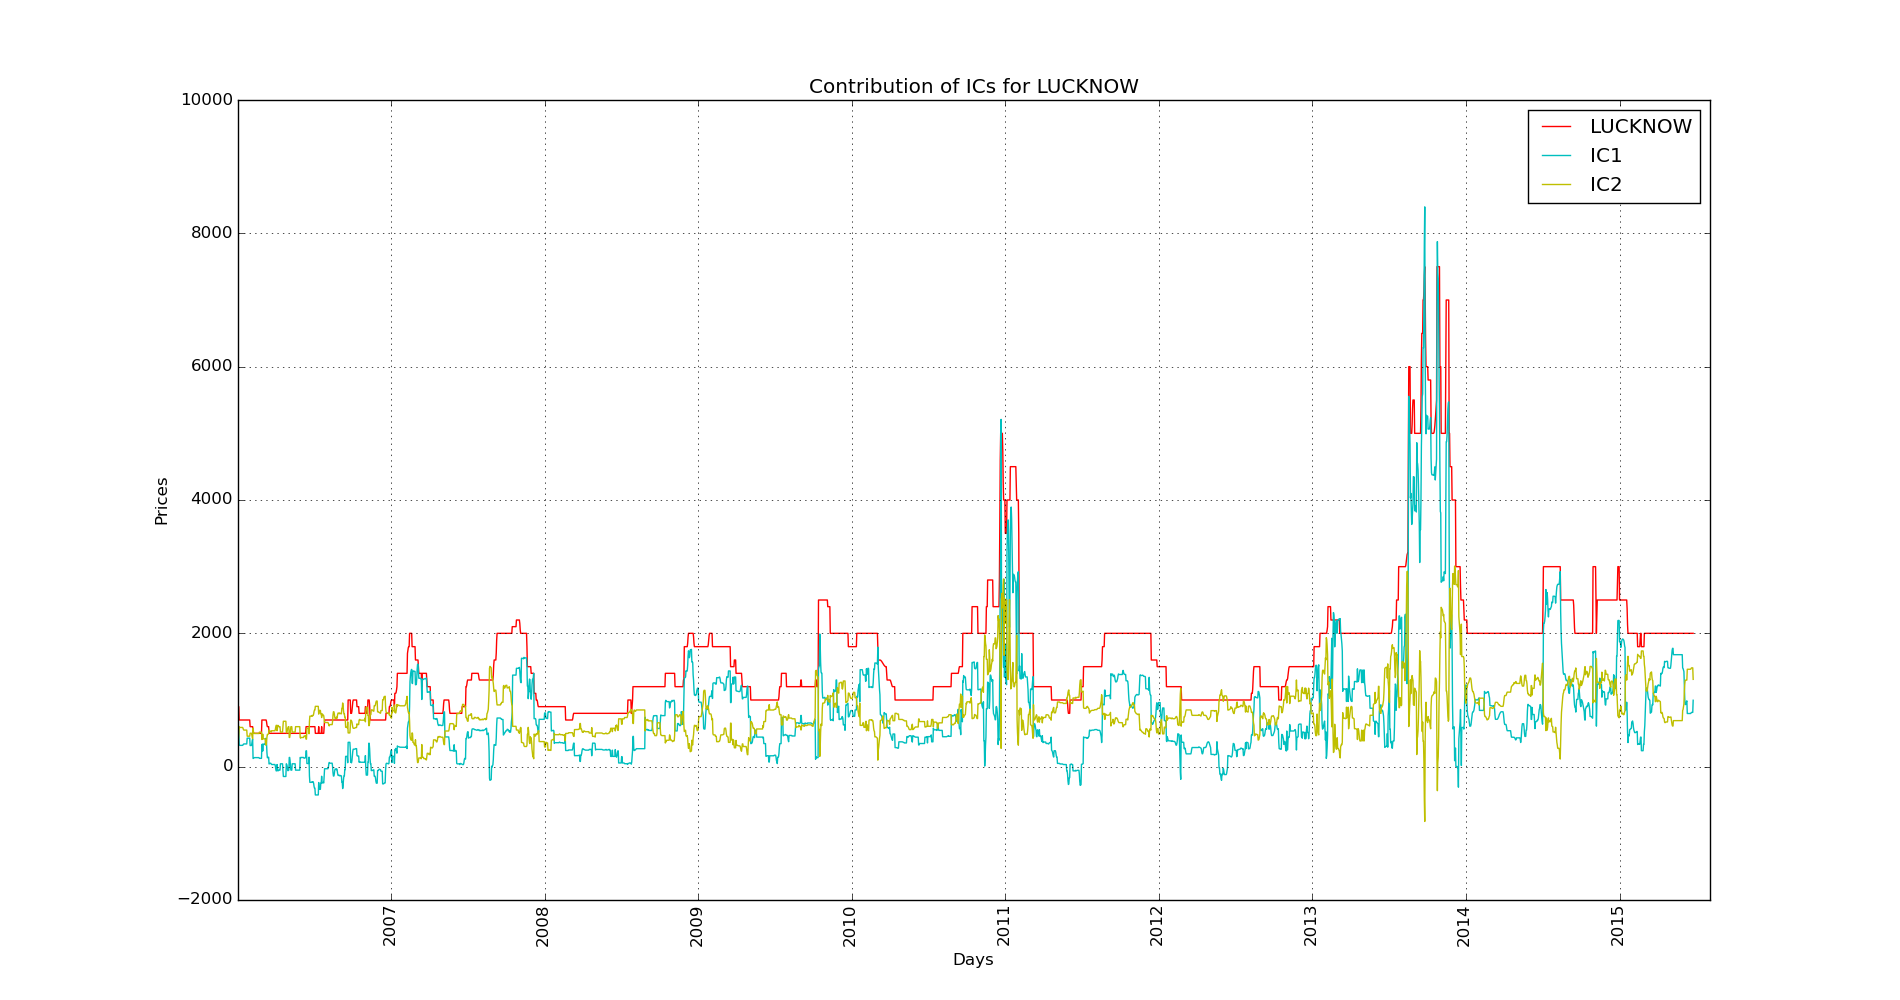
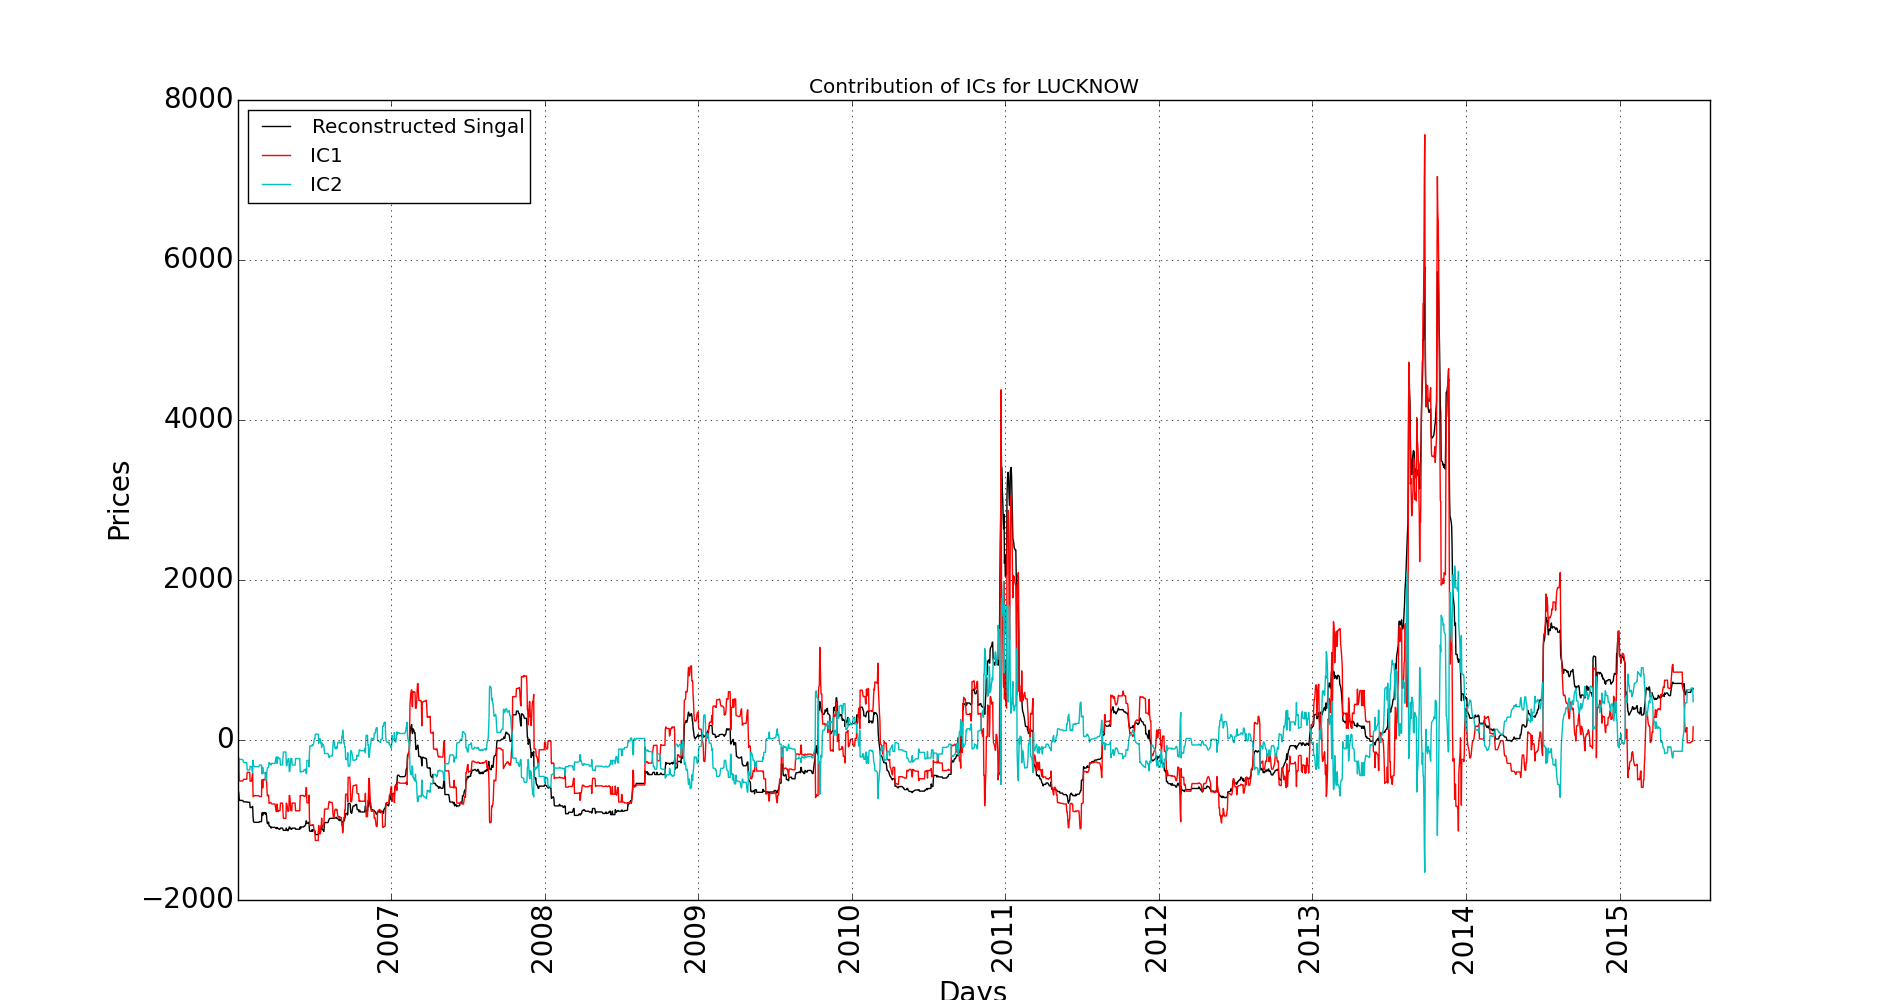
Before Mid Term PPT

diff --git a/ExtractAnoms.py b/ExtractAnoms.py
@@ -21,29 +21,111 @@ def analyze_diff(center_index):
 
 def MovingWndw(residual, factor, days):
 	anomList = []
+	a = []
+	'''
 	ewma = pd.ewma(residual, span=days)
 	for i in range(1, 3461):
 		if residual.ix[i] >= factor*ewma.ix[i]:
 			anomList.append(i)
 	'''
-	if i < days:
-		if residual.ix[i] > factor*residual[0:i-1].mean():
-			anomList.append(i)
-	else:
-		if residual.ix[i] >= factor*residual[i-days:i].mean():
-			anomList.append(i)
-	'''
+	for i in range(1, 3461):
+		if i < days:
+			if residual.ix[i] > factor*residual[0:i-1].mean():
+				anomList.append(i)
+			a.append(factor*residual[0:i-1].mean())
+		else:
+			if residual.ix[i] >= factor*residual[i-days:i].mean():
+				anomList.append(i)
+			a.append(factor*residual[i-days:i].mean())
+	plt.plot(a)
+	#'''
 	return anomList
 
+#New
+def MovingWndw(ts1, ts2, factor, days):
+	anomList = []
+	a = []
+	for i in range(1, 3461):
+		if i < days:
+			if ts2.ix[i] > factor*ts1[0:i].mean():
+				anomList.append(i)
+			a.append(ts1[0:i].mean())
+		else:
+			if residual.ix[i] >= factor*ts1[i-days:i].mean():
+				anomList.append(i)
+			a.append(residual[i-days:i].mean())	
+	plt.plot(a,'k')
+	return anomList
+
+#df.plot()
+anomList = MovingWndw(retail.ix[:,index], df[0], 1.01, 3)
+def tmp(tmp1):
+	indi = df[df[1] >= tmp1].index.tolist()
+	indi1 = df[df[1] <= -tmp1].index.tolist()
+	for i in indi:
+		plt.axvline(x=i, color='r')
+	for i in indi1:
+		plt.axvline(x=i, color='g')
+	plt.plot(retail["DELHI"], 'k')
+	plt.show()
+
+tmp(200)	#df[1].mad()
+
+def tmp(tmp1):
+	indi = df[df[1] >= tmp1].index.tolist()
+	#indi1 = df[df[1] <= -tmp1].index.tolist()
+	'''
+	for i in indi:
+		plt.axvline(x=i, color='r')
+	'''
+	x = windows(indi, 10)
+	for i in x['start']:
+		plt.axvline(x=i, color='r')
+	for i in x['end']:
+		plt.axvline(x=i, color='b')
+	plt.plot(retail["DELHI"], 'k')
+	plt.show()
+
+tmp(1.4*df[1].mad())
+
+def tmp(tmp1):
+	indi = df[df[1] >= tmp1].index.tolist()
+	#indi1 = df[df[1] <= -tmp1].index.tolist()
+	for i in indi:
+		plt.axvline(x=i, color='c')
+	plt.plot(retail["DELHI"], 'k')
+	labels = ['2007', '2008', '2009', '2010', '2011', '2012', '2013', '2014', '2015']
+	d = [i*365 for i in range(1,10)]
+	plt.xlabel("Days", fontsize=20)
+	plt.ylabel("Prices", fontsize=20)
+	plt.legend(loc='best')
+	plt.xticks(d, labels, rotation='vertical', fontsize=20)
+	plt.yticks(fontsize=20)
+	plt.title("Anomalies", fontsize=20)
+	plt.grid()
+	plt.show()
+	plt.show()
+
+tmp(1.4*df[1].mad())
+
+'''
+	x = windows(indi, days)
+	for i in x['start']:
+		plt.axvline(x=i, color='r')
+	for i in x['end']:
+		plt.axvline(x=i, color='b')
+'''
+MovingWndw(retail["DELHI"], 1.25, 7)
 def plot(index, factor, days):
 	residual = analyze_diff(index)
 	anomList = MovingWndw(residual, factor, days)
-	for i in anomList:
-		plt.axvline(x=i)
-	plt.plot(residual)
-	print("Number of anoms: "+str(len(anomList)))
-	plt.show()
-	return
+for i in anomList:
+	plt.axvline(x=i)
+
+plt.plot(residual)
+print("Number of anoms: "+str(len(anomList)))
+plt.show()
+return
 
 for i in range(1,6):
 	plot(i, 1.25, 10)
@@ -64,60 +146,103 @@ def windows(anomList, wndwSize):
 	end = anomList[0]
 	for i in range(1,len(anomList)+1):
 		if i == len(anomList):
-			if (end - start) != 0:
+			if (end - start) >= 6:
 				s.append(start)
 				e.append(end)
 		elif (anomList[i] - anomList[i-1]) < wndwSize:
 			end = anomList[i]
 		elif (anomList[i] - anomList[i-1]) > wndwSize:
-			if (end - start) != 0:
+			if (end - start) >= 6:
 				s.append(start)
 				e.append(end)
 				start = anomList[i]
 				end = anomList[i]
 	return {'start': s, 'end': e}
 
-def ICA(index, wndwSizeMA, factor, wndwSize):
-	centre_name = ["BHUBANESHWAR", "DELHI", "LUCKNOW", "MUMBAI", "PATNA"]
-	retail = pd.read_csv("processed_retail.csv")
-	X = retail.ix[:,1:6]
-	ica = FastICA(n_components=2)
-	S_ = ica.fit_transform(X)
-	A_ = ica.mixing_
-	'''
-	plt.plot(retail["DELHI"], 'g')
-	plt.plot(np.dot(S_,A_[2].T) + ica.mean_[2], 'r')
+def Plot_ICs(S_):
+	labels = ['2007', '2008', '2009', '2010', '2011', '2012', '2013', '2014', '2015']
+	d = [i*365 for i in range(1,10)]
+	plt.figure(1)
+	plt.subplot(211)
+	plt.plot(S_.T[0], label="IC1")
+	plt.legend(loc='best')
+	plt.xticks(d, labels, rotation='vertical', fontsize=20)
+	plt.grid()
+	plt.subplot(212)
+	plt.plot(S_.T[1], label="IC2")
+	plt.legend(loc='best')
+	plt.xticks(d, labels, rotation='vertical', fontsize=20)
+	plt.grid()
 	plt.show()
-	'''
-	df = pd.DataFrame()
-	df[0] = np.dot(S_,A_[index-1].T) + ica.mean_[index-1]
-	df[1] = (retail.ix[:,index] - df[0]).abs()
-	#configure Factor
-	anomList = MovingWndw(df[1], factor, wndwSizeMA)
+	return
+
+def rc_signal(index, S_, A_, X):
+	plt.plot(X.ix[:,index-1], 'b', label="DELHI")
+	plt.plot(np.dot(S_,A_[index-1].T), 'r', label="Reconstructed Singal")
+	labels = ['2007', '2008', '2009', '2010', '2011', '2012', '2013', '2014', '2015']
+	d = [i*365 for i in range(1,10)]
+	plt.xlabel("Days", fontsize=20)
+	plt.ylabel("Prices", fontsize=20)
+	plt.legend(loc='best')
+	plt.xticks(d, labels, rotation='vertical', fontsize=20)
+	plt.yticks(fontsize=20)
+	plt.title("Reconstructed Signals", fontsize=20)
+	plt.grid()
+	plt.show()
+	return
+
+def IC_contribution(index, S_, A_, X):
+	centre_name = ["BHUBANESHWAR", "DELHI", "LUCKNOW", "MUMBAI", "PATNA"]
+	plt.clf()
+	plt.figure(figsize=(1900/100, 1000/100), dpi=100)
+	#plt.plot(X.ix[:,index-1], 'k', label=centre_name[index-1])
+	plt.plot(np.dot(S_,A_[index-1].T), 'k', label="Reconstructed Singal")
+	plt.plot(S_.T[0]*A_[index-1][0], 'r', label='IC1')
+	plt.plot(S_.T[1]*A_[index-1][1], 'c', label='IC2')
+	plt.title('Contribution of ICs for '+str(centre_name[index-1]))
+	plt.xlabel("Days", fontsize=20)
+	plt.ylabel("Prices", fontsize=20)
+	plt.legend(loc='best')
+	plt.xticks(d, labels, rotation='vertical', fontsize=20)
+	plt.yticks(fontsize=20)
+	plt.grid()
+	#plt.show()
+	plt.savefig('Contribution of ICs for '+str(centre_name[index-1]))
+	return
+
+def ICA(index, wndwSizeMA, factor, wndwSize):
+retail = pd.read_csv("processed_retail.csv")
+X = retail.ix[:,1:6]
+ica = FastICA(n_components=2)
+S_ = ica.fit_transform(X)
+A_ = ica.mixing_
+'''
+#Plot_ICs(index, S_)					#Plots ICs
+#rc_signal(index, S_, A_, X)			#Reconstruction of signal
+IC_contribution(index, S_, A_, X)		#Plot contribution of individual anomaly
+return
+ICA(2, 11, 0.75, 11)
+#'''
+#extract Anoms
+df = pd.DataFrame()
+df[0] = np.dot(S_,A_[index-1].T) + ica.mean_[index-1]
+df[1] = (retail.ix[:,index] - df[0])
+#configure Factor
+df.plot()
+anomList = MovingWndw(retail.ix[:,index], df[0], factor, wndwSizeMA)
+plt.show()
 	print("Number of anoms in ICA: "+str(len(anomList)))
+	'''
 	residual = analyze_diff(index)
 	anomList1 = MovingWndw(residual, 1.25, wndwSizeMA)
 	print("Number of anoms naturally: "+str(len(anomList1)))
-	x = list(set(anomList1) - set(anomList))
+	#x = list(set(anomList1) - set(anomList))
 	print(len(x))
+	'''
 	df[3] = df[0] - ica.mean_[index-1]
 	labels = ['2007', '2008', '2009', '2010', '2011', '2012', '2013', '2014', '2015']
 	d = [i*365 for i in range(1,10)]
-	'''
-	Plot contribution of individual anomaly
-	plt.clf()
-	plt.figure(figsize=(1900/100, 1000/100), dpi=100)
-	plt.plot(retail.ix[:,index], 'r', label=centre_name[index-1])
-	plt.plot(S_.T[0]*A_[index-1][0] + ica.mean_[index-1]/2, 'c', label='IC1')
-	plt.plot(S_.T[1]*A_[index-1][1] + ica.mean_[index-1]/2, 'y', label='IC2')
-	plt.title('Contribution of ICs for '+str(centre_name[index-1]))
-	plt.xlabel("Days")
-	plt.ylabel("Prices")
-	plt.legend(loc='best')
-	plt.xticks(d, labels, rotation='vertical')
-	plt.grid()
-	plt.savefig('Contribution of ICs for '+str(centre_name[index-1]))
-	'''
+	#'''
 	'''
 	#Plot points reported as anomaly
 	for i in anomList:
@@ -129,22 +254,23 @@ def ICA(index, wndwSizeMA, factor, wndwSize):
 	#Create periods of anomaly
 	'''
 	x = windows(anomList, wndwSize)
-	for i in x['start']:
-		plt.axvline(x=i, color='r')
-	for i in x['end']:
-		plt.axvline(x=i, color='b')
+for i in x['start']:
+	plt.axvline(x=i, color='r')
+
+for i in x['end']:
+	plt.axvline(x=i, color='b')
 	#'''
 	plt.plot(retail.ix[:,index], 'g')
-	plt.plot(df[0], 'r')
+	#plt.plot(df[0], 'r')
 	plt.grid()
 	plt.show()
 	return
 
 '''
 #ICA(index, wndwSizeMA, factor, wndwSize(create periods))
-ICA(2, 11, 0.75, 11)
+ICA(2, 7, 1.50, 7)
 for i in range(1,6):
-	ICA(i, 11, 0.9, 11)
+	ICA(i, 7, 1.10, 7)
 '''
 
 '''
